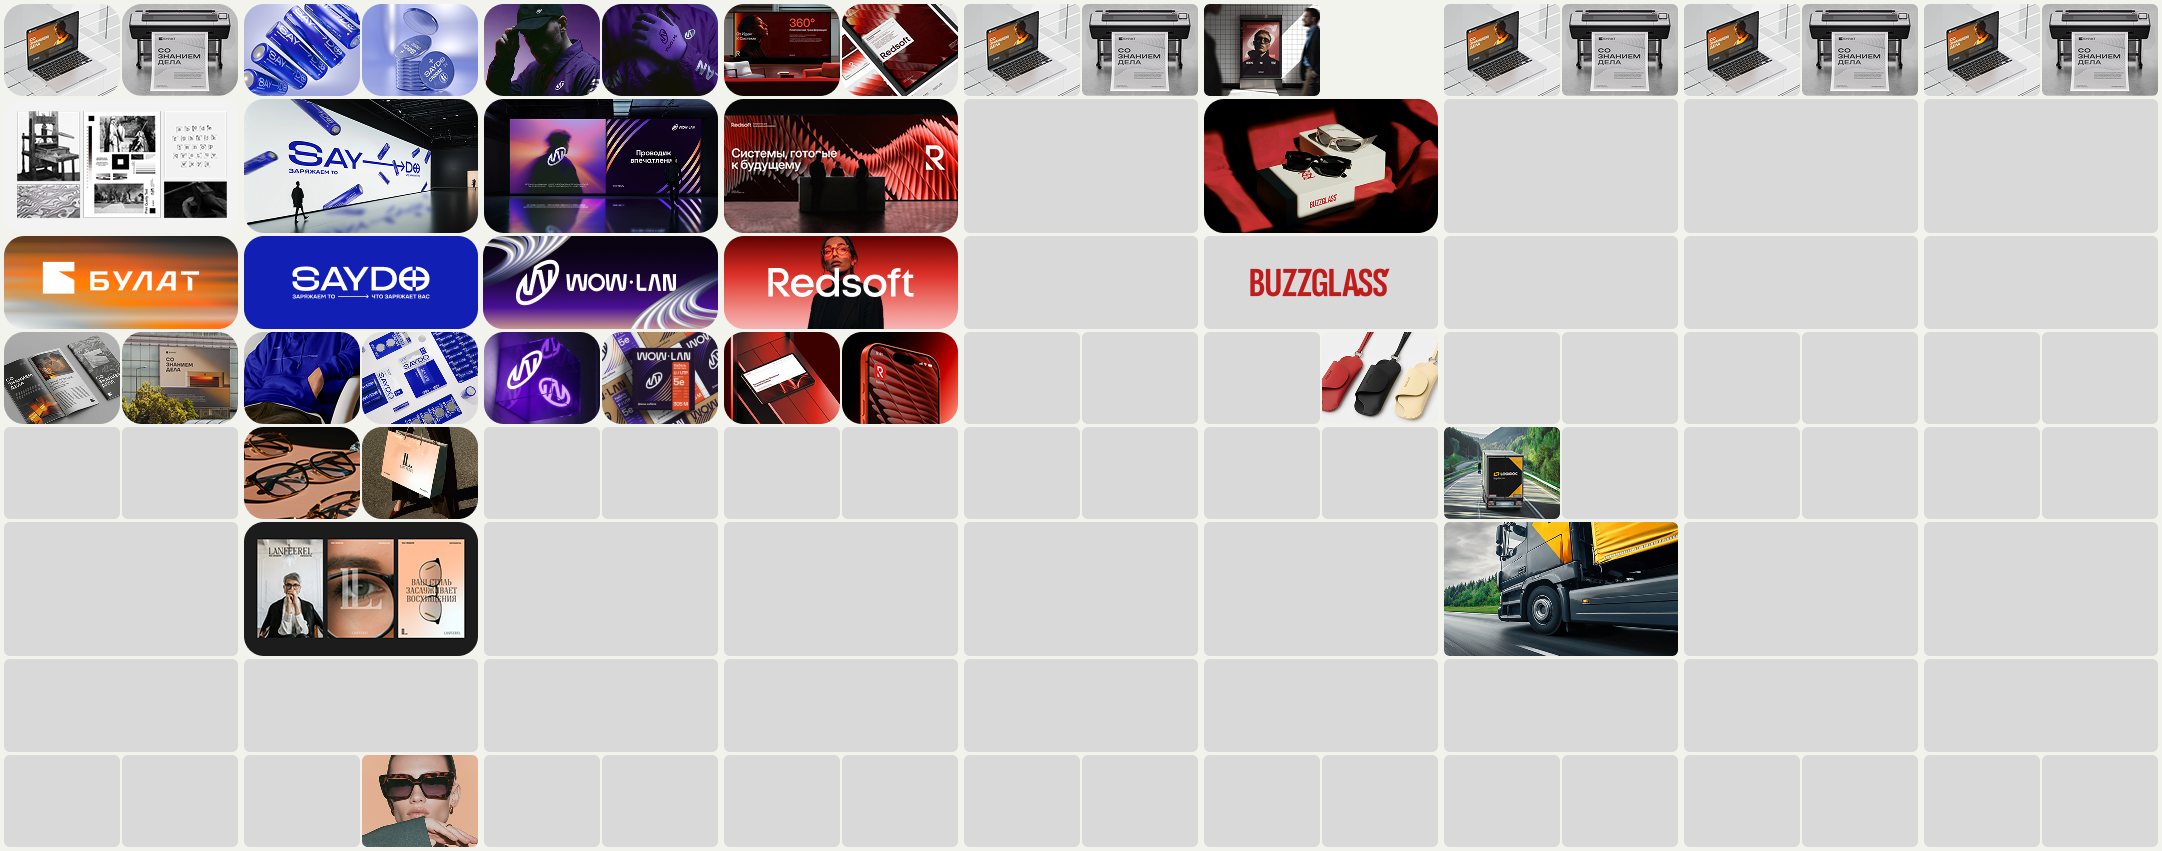
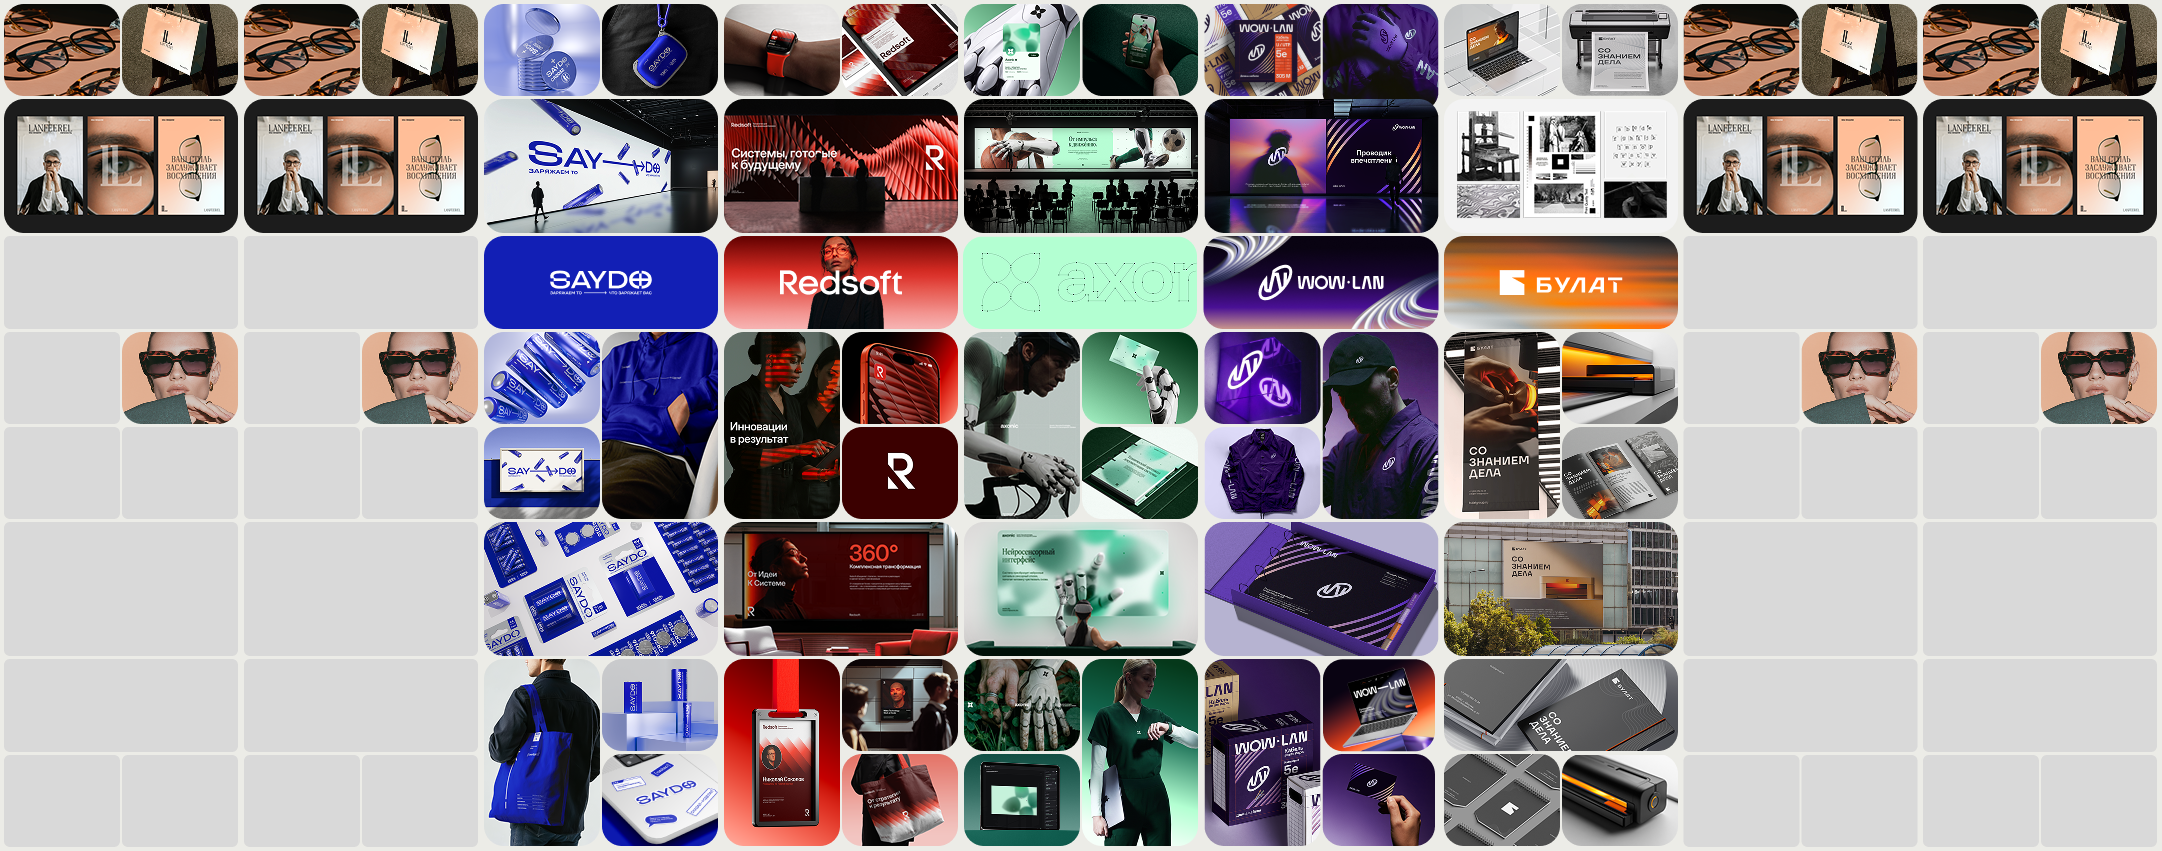
Replace contact portfolio collage

diff --git a/contact.html b/contact.html
@@ -1,4 +1,4 @@
-<!doctype html><html lang="ru"><head><meta charset="utf-8" /><meta name="viewport" content="width=device-width, initial-scale=1" /><meta name="description" content="Свяжитесь с Ильёй Зубковым по вопросам айдентики, арт-дирекшна, презентаций и AI-assisted production." /><meta name="theme-color" content="#ecece7" /><title>Контакт — Илья Зубков</title><link rel="preconnect" href="https://fonts.googleapis.com" /><link rel="preconnect" href="https://fonts.gstatic.com" crossorigin /><link href="https://fonts.googleapis.com/css2?family=Inter:wght@400;500;600;700;800;900&family=Roboto+Mono:wght@400;500;600&display=swap" rel="stylesheet" /><link rel="stylesheet" href="assets/site.css?v=20261007-contact-collage" /><script src="assets/page-entry.js?v=20261003-mobile-menu"></script><script src="assets/projects.js?v=20261006-clean-footer" defer></script><script src="assets/site.js?v=20261006-contact-template" defer></script></head>
+<!doctype html><html lang="ru"><head><meta charset="utf-8" /><meta name="viewport" content="width=device-width, initial-scale=1" /><meta name="description" content="Свяжитесь с Ильёй Зубковым по вопросам айдентики, арт-дирекшна, презентаций и AI-assisted production." /><meta name="theme-color" content="#ecece7" /><title>Контакт — Илья Зубков</title><link rel="preconnect" href="https://fonts.googleapis.com" /><link rel="preconnect" href="https://fonts.gstatic.com" crossorigin /><link href="https://fonts.googleapis.com/css2?family=Inter:wght@400;500;600;700;800;900&family=Roboto+Mono:wght@400;500;600&display=swap" rel="stylesheet" /><link rel="stylesheet" href="assets/site.css?v=20261007-contact-collage-v2" /><script src="assets/page-entry.js?v=20261003-mobile-menu"></script><script src="assets/projects.js?v=20261006-clean-footer" defer></script><script src="assets/site.js?v=20261006-contact-template" defer></script></head>
 <body id="top" data-page="contact" data-title-ru="Контакт — Илья Зубков" data-title-en="Contact — Ilya Zubkov" data-description-ru="Свяжитесь с Ильёй Зубковым по вопросам айдентики, арт-дирекшна, презентаций и AI-assisted production." data-description-en="Contact Ilya Zubkov for brand identity, art direction, presentations and AI-assisted production."><header class="site-header" id="site-header"></header><main>
     <section class="contact-hero wrap">
     <div class="contact-aside">
@@ -13,6 +13,6 @@
     </div>
   </section>
   <figure class="contact-visual">
-    <img src="assets/contact-collage.png" width="2162" height="851" alt="Коллаж проектов Maybe Project" fetchpriority="high" decoding="async" />
+    <img src="assets/contact-collage.png?v=20261007-v2" width="2162" height="851" alt="Коллаж проектов Maybe Project" fetchpriority="high" decoding="async" />
   </figure>
 </main><footer class="site-footer" id="site-footer"></footer></body></html>

diff --git a/assets/site.css b/assets/site.css
@@ -665,7 +665,7 @@ body.page-leaving{pointer-events:none}
 .contact-invitation{white-space:pre-line}
 .contact-hero .contact-aside .contact-note{margin-top:20px;font-size:var(--rail-body-size);font-weight:400;line-height:1.45;letter-spacing:normal}
 .contact-visual{position:relative;isolation:isolate;aspect-ratio:2162/851;background:var(--dark);overflow:hidden}
-.contact-visual>img{display:block;width:100%;height:100%;object-fit:cover;object-position:left top}
+.contact-visual>img{display:block;width:100%;height:100%;object-fit:cover;object-position:center top}
 .contact-visual::after{content:"";position:absolute;inset:0;pointer-events:none;background:linear-gradient(180deg,transparent 25%,rgba(17,17,16,.15) 45%,rgba(17,17,16,.75) 75%,var(--dark) 100%)}
 body[data-page="contact"] .site-header{background:var(--bg)}
 body[data-page="contact"] .site-header.header--light{background:var(--dark)}
